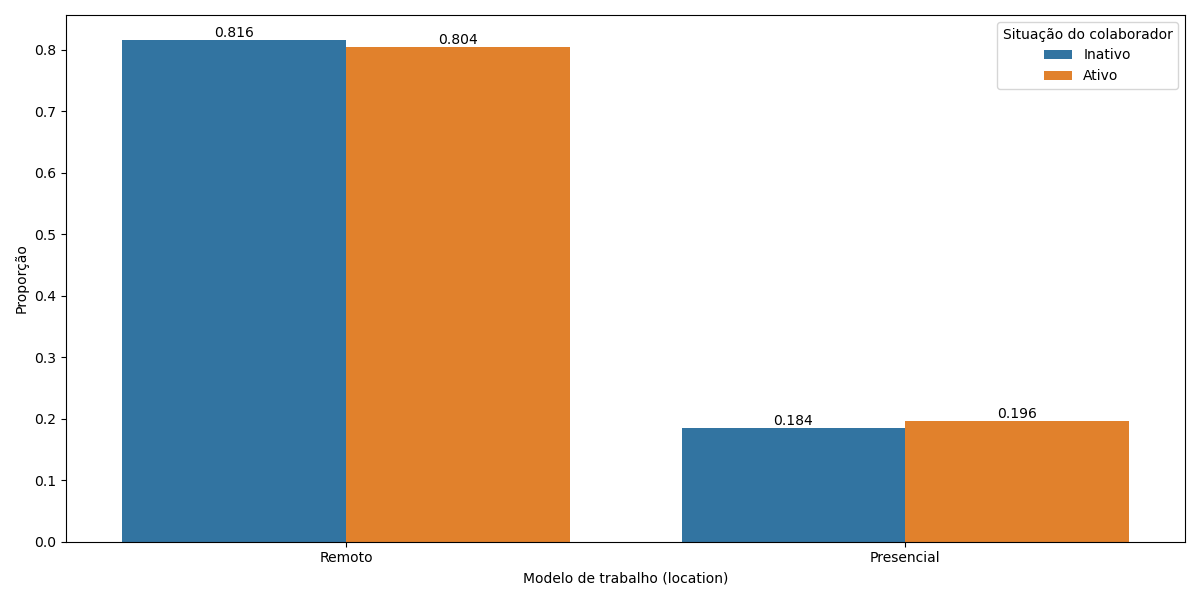
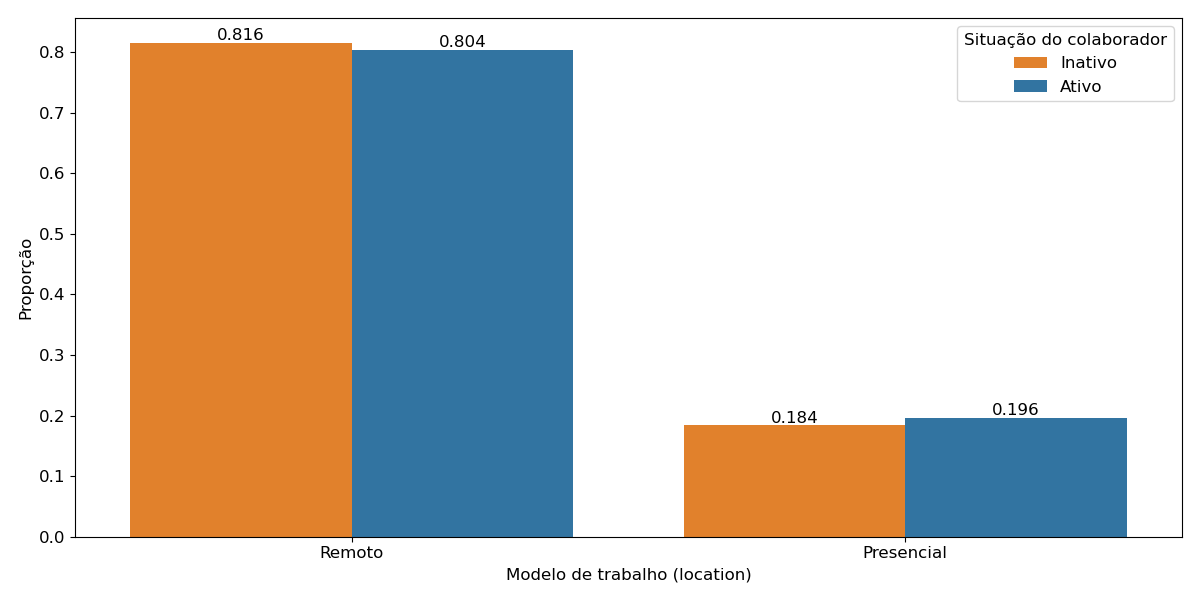
Small adjustments

diff --git a/code/analysis.py b/code/analysis.py
@@ -4,12 +4,26 @@ import pandas as pd
 import seaborn as sns
 
 
+# Definindo uma paleta de cores personalizada com hexadecimais
+custom_palette = ["#ff7f0e", "#1f77b4"]
+
+# Definindo a paleta como a paleta padrão
+sns.set_palette(custom_palette)
+
+plt.rc('font', size=12)          # controla o tamanho da fonte do texto
+plt.rc('axes', titlesize=12)     # tamanho da fonte do título do eixo
+plt.rc('axes', labelsize=12)     # tamanho da fonte dos rótulos do eixo
+plt.rc('xtick', labelsize=12)    # tamanho da fonte dos ticks do eixo x
+plt.rc('ytick', labelsize=12)    # tamanho da fonte dos ticks do eixo y
+plt.rc('legend', fontsize=12)    # tamanho da fonte da legenda
+plt.rc('figure', titlesize=12)   # tamanho da fonte do título da figura
+
 employees_df = pd.read_csv(filepath_or_buffer='./data/people_analytics_start.csv')
 
 employees_df['education'].replace([np.nan, "Associate's degree", "Bachelor's degree", "Master's degree"], [0, 1, 2, 3], inplace=True)
 
-bins = [20,25,30,35,40,45,50,55,60,65]
-labels = ['[20-24]','[25-29]','[30-34]','[35-39]','[40-44]','[45-49]','[50-54]','[55-59]','[60-64]']
+bins = [20, 25, 30, 35, 40, 45, 50, 55, 60, 65]
+labels = ['[20-24]', '[25-29]', '[30-34]', '[35-39]', '[40-44]', '[45-49]', '[50-54]', '[55-59]', '[60-64]']
 employees_df['age_group'] = pd.cut(employees_df['age'], bins=bins, labels=labels, right=False)
 
 left_df = employees_df[employees_df['active_status'] == 0]
@@ -23,14 +37,15 @@ plot = sns.histplot(left_df['term_type'], shrink=0.8)
 # Annotate each bar with its value
 for p in plot.patches:
     plot.annotate(format(p.get_height(), '.0f'), 
-                     (p.get_x() + p.get_width() / 2., p.get_height() - 5), 
-                     ha = 'center', va = 'center', 
-                     xytext = (0, 9), 
-                     textcoords = 'offset points')
+                  (p.get_x() + p.get_width() / 2., p.get_height() - 5), 
+                  ha = 'center', va = 'center', 
+                  xytext = (0, 9), 
+                  textcoords = 'offset points')
 
 plot.set_xlabel('Tipo de desligamento do colaborador (term_type)')
 plot.set_ylabel('# Ocorrências')
 plot.set_xticklabels(['Voluntário', 'Involuntário'])
+
 plt.tight_layout()
 plt.savefig('./figures/analysis_term_type.png')
 plt.close()
@@ -43,17 +58,21 @@ plot = sns.histplot(left_df['term_reason'], shrink=0.8)
 # Annotate each bar with its value
 for p in plot.patches:
     plot.annotate(format(p.get_height(), '.0f'), 
-                     (p.get_x() + p.get_width() / 2., p.get_height() - 1), 
-                     ha = 'center', va = 'center', 
-                     xytext = (0, 9), 
-                     textcoords = 'offset points')
+                  (p.get_x() + p.get_width() / 2., p.get_height() - 1), 
+                  ha = 'center', va = 'center', 
+                  xytext = (0, 9), 
+                  textcoords = 'offset points')
+
+# xticks = ['Oportunidade melhor', 'Mudança de carreira', 'Desempenho', 'Salário melhor',
+#           'Benefícios mais flexíveis', 'Razões pessoais', 'Rescisão por justa causa', 'Realocação',
+#           'Reestruturação da empresa', 'Cortes de orçamento']
+xticks = ['OM', 'MC', 'D', 'SM', 'BMF', 'RP', 'RJC', 'R', 'RE', 'CO']
 
 plot.set_xlabel('Motivo do desligamento do colaborador (term_reason)')
 plot.set_ylabel('# Ocorrências')
-plot.set_xticklabels(['Oportunidade melhor', 'Mudança de carreira', 'Desempenho', 'Salário melhor',
-                      'Benefícios mais flexíveis', 'Razões pessoais', 'Rescisão por justa causa', 'Realocação',
-                      'Reestruturação da empresa', 'Cortes de orçamento'])
-plot.figure.set_size_inches(20, 8)
+plot.set_xticklabels(xticks)
+plot.figure.set_size_inches(12, 6)
+
 plt.tight_layout()
 plt.savefig('./figures/analysis_term_reason.png')
 plt.close()
@@ -88,7 +107,7 @@ ax = plt.gca()
 for p in ax.patches:
     if p._height > 0:
         ax.annotate(format(p.get_height(), '.3f'), (p.get_x() + p.get_width() / 2., p.get_height()),
-                    ha='center', va='center', fontsize=10, color='black', xytext=(0, 5),
+                    ha='center', va='center', fontsize=12, color='black', xytext=(0, 5),
                     textcoords='offset points')
 
 plt.tight_layout()
@@ -118,7 +137,7 @@ plt.close()
 
 
 # Gênero
-plt.figure(figsize=(25, 8))
+plt.figure(figsize=(12, 6))
 plt.yscale("log")
 x, y, hue = "gender", "proportion", "active_status"
 
@@ -146,7 +165,7 @@ ax = plt.gca()
 for p in ax.patches:
     if p._height > 0:
         ax.annotate(format(p.get_height(), '.5f'), (p.get_x() + p.get_width() / 2., p.get_height()),
-                    ha='center', va='center', fontsize=10, color='black', xytext=(0, 5),
+                    ha='center', va='center', fontsize=12, color='black', xytext=(0, 5),
                     textcoords='offset points')
 
 plt.tight_layout()
@@ -156,7 +175,7 @@ plt.close()
 
 
 # Grau de educação
-plt.figure(figsize=(25, 8))
+plt.figure(figsize=(12, 6))
 plt.yscale("log")
 x, y, hue = "education", "proportion", "active_status"
 
@@ -184,7 +203,7 @@ ax = plt.gca()
 for p in ax.patches:
     if p._height > 0:
         ax.annotate(format(p.get_height(), '.3f'), (p.get_x() + p.get_width() / 2., p.get_height()),
-                    ha='center', va='center', fontsize=10, color='black', xytext=(0, 5),
+                    ha='center', va='center', fontsize=12, color='black', xytext=(0, 5),
                     textcoords='offset points')
 
 plt.tight_layout()
